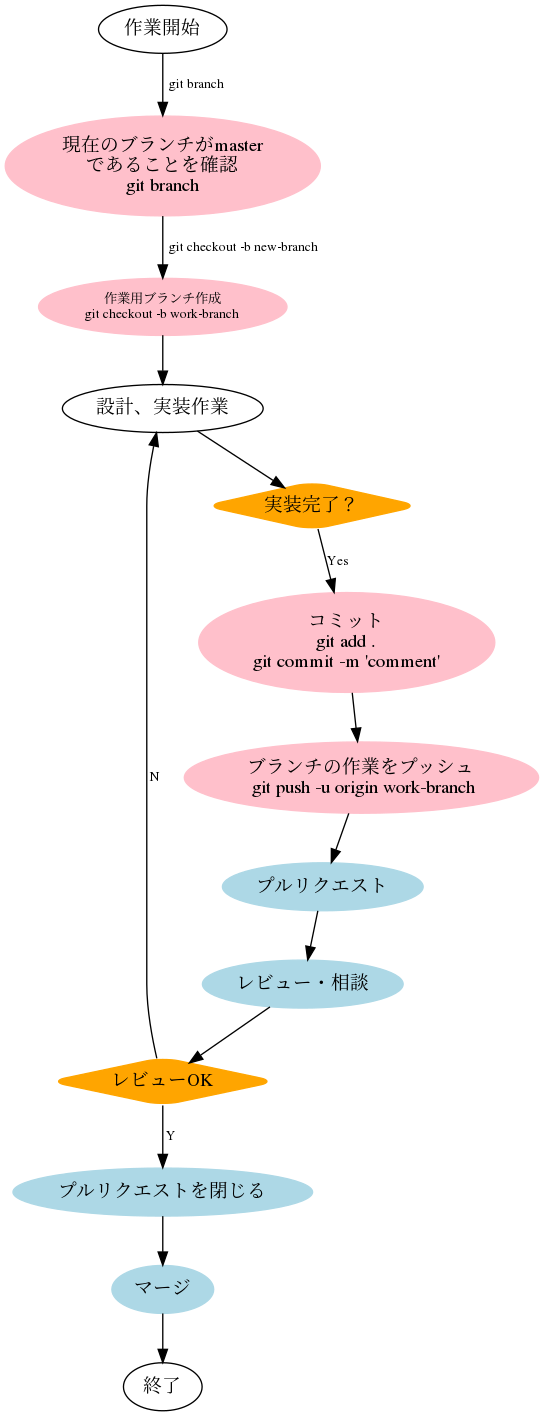
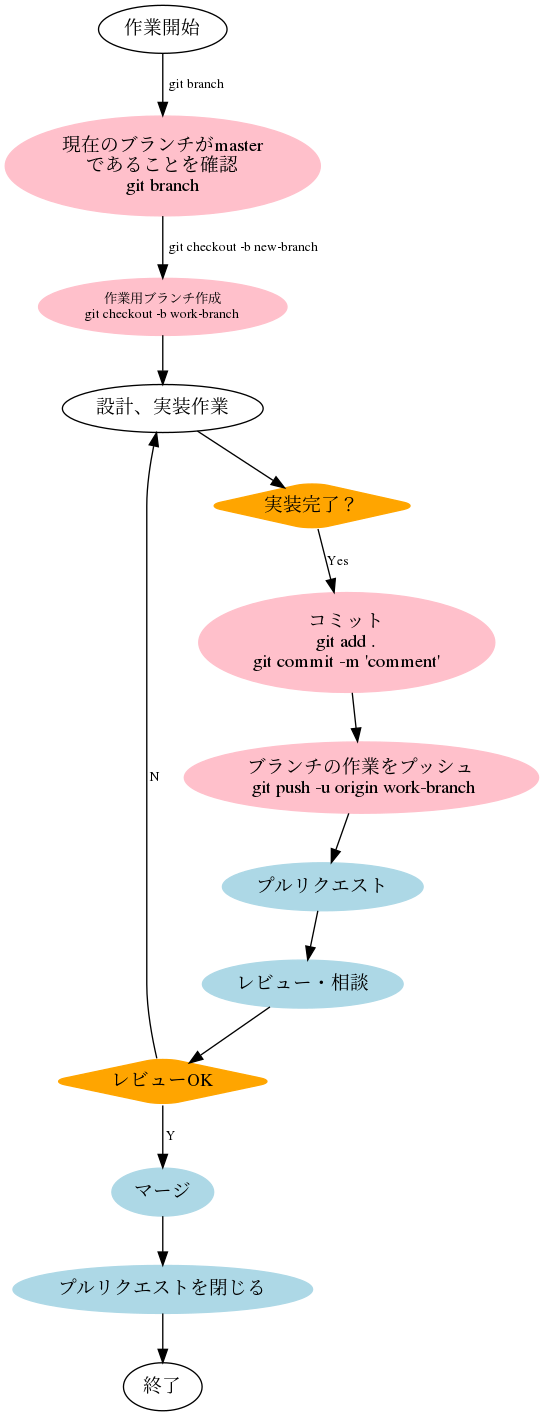
fix #1

Changed region(s): [[0.0312, 0.8079, 0.5938, 0.9322]]

diff --git a/lesson2/simple-github-flow.py b/lesson2/simple-github-flow.py
@@ -51,9 +51,9 @@ dot.edge(node_commit, node_push_remote)
 dot.edge(node_push_remote, node_pull_request)
 dot.edge(node_pull_request, node_review)
 dot.edge(node_review, node_if2)
-dot.edge(node_if2, node_pull_request_close, label=" Y", fontsize="10", fontstyle="bold")
+dot.edge(node_if2, node_merge, label=" Y", fontsize="10", fontstyle="bold")
 dot.edge(node_if2, node_design, label=" N", fontsize="10", fontstyle="bold")
-dot.edge(node_pull_request_close, node_merge)
-dot.edge(node_merge, node_end)
+dot.edge(node_merge, node_pull_request_close)
+dot.edge(node_pull_request_close, node_end)
 
 dot.render("simple-github-flow")
